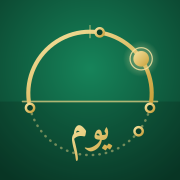
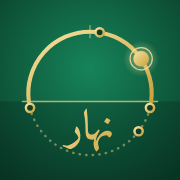
Nouveau nom : Nahar - Ma journée Sunna

diff --git a/index.html b/index.html
@@ -5,7 +5,7 @@
 <link rel="preload" href="fonts/cormorant-italic-600.woff2" as="font" type="font/woff2" crossorigin>
 <meta charset="utf-8">
 <meta name="viewport" content="width=device-width, initial-scale=1, viewport-fit=cover">
-<title>Yawm - Musulman au quotidien</title>
+<title>Nahar - Ma journée Sunna</title>
 <meta name="theme-color" content="#0E6B47">
 <meta name="color-scheme" content="light dark">
 <link rel="manifest" href="manifest.webmanifest">
@@ -13,7 +13,7 @@
 <link rel="apple-touch-icon" href="icons/icon-180.png?v=2">
 <meta name="apple-mobile-web-app-capable" content="yes">
 <meta name="mobile-web-app-capable" content="yes">
-<meta name="apple-mobile-web-app-title" content="Yawm">
+<meta name="apple-mobile-web-app-title" content="Nahar">
 <meta name="apple-mobile-web-app-status-bar-style" content="black-translucent">
 <link rel="preconnect" href="https://fonts.googleapis.com">
 <link rel="preconnect" href="https://fonts.gstatic.com" crossorigin>
@@ -891,7 +891,7 @@ function whiteBlock(now,onDark){
     <div class="wmoons">${days.map((d,k)=>{const mi=moonInfo(new Date(d.getTime()+21*3600e3));return `<div class="${k===idx?"cur":""}">${moonSVG(mi.f,20)}<b>${d.toLocaleDateString("fr-FR",{weekday:"short",day:"numeric",month:"short"})}</b><span>(${13+k})</span><span class="pc">lune à ${Math.round(mi.ill*100)} %</span></div>`}).join("")}</div>
     <div class="wst">${status}</div><div class="wn">La récompense d'une année de jeûne est promise pour les trois jours accomplis. Allah seul sait.</div></div>`;
 }
-/* ---------- Notifications (Web Push via le serveur Yawm) ---------- */
+/* ---------- Notifications (Web Push via le serveur Nahar) ---------- */
 const PUSH_URL="https://yawm-notifs.reflexions-sami.workers.dev";/* adresse du serveur Cloudflare, ex. https://yawm-notifs.xxx.workers.dev */
 const NOTIF_KINDS={pri:["Prières","À l'heure de chaque prière obligatoire."],avant:["Rappel avant la prière","Quelques minutes avant l'adhan, le temps de faire ses ablutions."],lj:["Jeûne du lundi et du jeudi","La veille, au Maghrib."],blanc:["Jours blancs","Trois jours, deux jours puis la veille, au Maghrib."]};
 function notifOpts(){return Object.assign({pri:true,avant:false,avm:10,lj:true,blanc:true},S.notif||{})}
@@ -923,7 +923,7 @@ function notifEvents(nDays){
     add(P.maghrib,ti,b,"jeune");
   }
   const last=day(t0,nDays-3),PL=prayerTimes(last,la,ln,m,S.asr);
-  add(new Date(PL.dhuhr.getTime()+30*60000),"Tes rappels s'arrêtent bientôt","Ouvre Yawm pour prolonger tes notifications.","renew");
+  add(new Date(PL.dhuhr.getTime()+30*60000),"Tes rappels s'arrêtent bientôt","Ouvre Nahar pour prolonger tes notifications.","renew");
   return ev;
 }
 function notifSupport(){
@@ -952,7 +952,7 @@ async function pushSync(force){
 }
 async function notifEnable(){
   const perm=await Notification.requestPermission();
-  if(perm!=="granted")throw new Error("Notifications refusées. Autorise-les pour Yawm dans les réglages du téléphone.");
+  if(perm!=="granted")throw new Error("Notifications refusées. Autorise-les pour Nahar dans les réglages du téléphone.");
   const reg=await navigator.serviceWorker.ready;
   let sub=await reg.pushManager.getSubscription();
   if(!sub){const {key}=await (await fetch(PUSH_URL+"/key")).json();
@@ -1040,7 +1040,7 @@ function onboarding(){
   let k=0;const el=document.createElement("div");el.className="onb";el.setAttribute("role","dialog");el.setAttribute("aria-label","Prise en main");document.body.appendChild(el);
   const done=()=>{try{localStorage.setItem("mq-onboarded","1")}catch(e){}el.classList.add("out");setTimeout(()=>el.remove(),400);route()};
   const screens=[
-    ()=>`<span class="ok">Bienvenue dans Yawm</span><h2>Ta journée, du Maghrib au Maghrib</h2>
+    ()=>`<span class="ok">Bienvenue dans Nahar</span><h2>Ta journée, du Maghrib au Maghrib</h2>
       <ul><li><i>◆</i><span><b>Chemine</b> te montre la prochaine prière et ce que la Sunna recommande à chaque moment.</span></li>
       <li><i>◆</i><span>Chaque pratique est donnée <b>avec sa source</b> et son degré d'authenticité. Touche-la pour lire le hadith.</span></li>
       <li><i>◆</i><span><b>Coran, hadiths, jeûne, dhikr</b> : tout fonctionne aussi hors connexion.</span></li></ul>`,
@@ -1054,7 +1054,7 @@ function onboarding(){
       <li><i>◆</i><span>La veille au Maghrib, un rappel pour le <b>jeûne du lundi, du jeudi et des jours blancs</b>.</span></li></ul>
       ${st==="ok"?`<div class="ob"><button class="pr" id="obon">${on?"Notifications activées":"Activer les notifications"}</button><button id="obtest">Tester</button></div>
         <p class="om" id="obm">${on?"Touche Tester pour vérifier.":"Le téléphone va te demander l'autorisation : touche Autoriser."}</p>`
-      :st==="ios"?`<p class="om">Sur iPhone : touche Partager dans Safari, puis « Sur l'écran d'accueil ». Ouvre ensuite Yawm depuis son icône et active les notifications dans Réglages.</p>`
+      :st==="ios"?`<p class="om">Sur iPhone : touche Partager dans Safari, puis « Sur l'écran d'accueil ». Ouvre ensuite Nahar depuis son icône et active les notifications dans Réglages.</p>`
       :`<p class="om">Tu pourras les activer plus tard dans Réglages.</p>`}`}
   ];
   const show=()=>{

diff --git a/confidentialite.html b/confidentialite.html
@@ -3,7 +3,7 @@
 <head>
 <meta charset="utf-8">
 <meta name="viewport" content="width=device-width,initial-scale=1">
-<title>Politique de confidentialité · Yawm - Musulman au quotidien</title>
+<title>Politique de confidentialité · Nahar - Ma journée Sunna</title>
 <style>
 body{margin:0;background:#F4F1E8;color:#1D2B24;font:16px/1.6 system-ui,-apple-system,"Segoe UI",Roboto,sans-serif}
 main{max-width:720px;margin:0 auto;padding:28px 20px 60px}
@@ -19,9 +19,9 @@ a{color:#0E6B47}
 <body>
 <main>
 <h1>Politique de confidentialité</h1>
-<p class="d">Yawm - Musulman au quotidien · Éditeur : Eyoub Bouarfa · En vigueur depuis le 23 novembre 2026</p>
+<p class="d">Nahar - Ma journée Sunna · Éditeur : Eyoub Bouarfa · En vigueur depuis le 23 novembre 2026</p>
 
-<p>Yawm est une application gratuite, sans compte, sans publicité et sans vente de données. Cette page explique ce qui sort de ton téléphone, pourquoi, et ce que tu peux contrôler.</p>
+<p>Nahar est une application gratuite, sans compte, sans publicité et sans vente de données. Cette page explique ce qui sort de ton téléphone, pourquoi, et ce que tu peux contrôler.</p>
 
 <h2>Ce qui reste sur ton téléphone</h2>
 <p>Tes réglages, ta ville, ta position, ton avancement dans le Coran, tes compteurs de dhikr et tes préférences sont enregistrés uniquement dans la mémoire de l'application sur ton téléphone. Ils ne sont envoyés à aucun serveur de l'éditeur. Les horaires de prière sont calculés sur ton téléphone.</p>

diff --git a/notifs/worker.js b/notifs/worker.js
@@ -1,4 +1,4 @@
-// Yawm · serveur de notifications (Cloudflare Worker)
+// Nahar · serveur de notifications (Cloudflare Worker)
 // Auteur : Eyoub Bouarfa
 //
 // L'appli calcule elle-même ses rappels des 30 prochains jours (horaires, jeûnes)
@@ -129,7 +129,7 @@ export default {
     try {
       await init(env);
       if (req.method === "GET" && url.pathname === "/key") return json({ key: (await keys(env)).pub });
-      if (req.method === "GET" && url.pathname === "/") return json({ ok: true, service: "Yawm notifications" });
+      if (req.method === "GET" && url.pathname === "/") return json({ ok: true, service: "Nahar notifications" });
       if (req.method !== "POST") return json({ error: "méthode" }, 405);
       const d = await req.json();
       if (url.pathname === "/schedule") {
@@ -148,7 +148,7 @@ export default {
       }
       if (url.pathname === "/test") {
         if (!validSub(d.sub)) return json({ error: "données" }, 400);
-        const res = await send(env, d.sub, { title: "Yawm", body: "Les notifications fonctionnent.", tag: "test" });
+        const res = await send(env, d.sub, { title: "Nahar", body: "Les notifications fonctionnent.", tag: "test" });
         return json({ ok: res.ok, status: res.status }, res.ok ? 200 : 502);
       }
       if (url.pathname === "/unsubscribe") {

diff --git a/sw.js b/sw.js
@@ -15,11 +15,11 @@ self.addEventListener("fetch", e => {
   }).catch(() => caches.match(e.request).then(r => r || caches.match("index.html"))));
 });
 
-// Notifications envoyées par le serveur Yawm
+// Notifications envoyées par le serveur Nahar
 self.addEventListener("push", e => {
   let d = {};
   try { d = e.data ? e.data.json() : {}; } catch (x) { d = { body: e.data ? e.data.text() : "" }; }
-  e.waitUntil(self.registration.showNotification(d.title || "Yawm", {
+  e.waitUntil(self.registration.showNotification(d.title || "Nahar", {
     body: d.body || "", tag: d.tag || undefined, renotify: !!d.tag, icon: "icons/icon-192.png", badge: "icons/badge-96.png",
     vibrate: [200, 100, 200], data: { url: d.url || "./#chemin" }
   }));

diff --git a/README.md b/README.md
@@ -1,4 +1,4 @@
-# Yawm · Musulman au quotidien
+# Nahar · Ma journée Sunna
 
 Application web installable qui accompagne la journée du musulman, du Maghrib au Maghrib, selon le Coran et la Sunna.
 

diff --git a/notifs/README.md b/notifs/README.md
@@ -1,4 +1,4 @@
-# Serveur de notifications Yawm
+# Serveur de notifications Nahar
 
 Auteur : Eyoub Bouarfa
 
